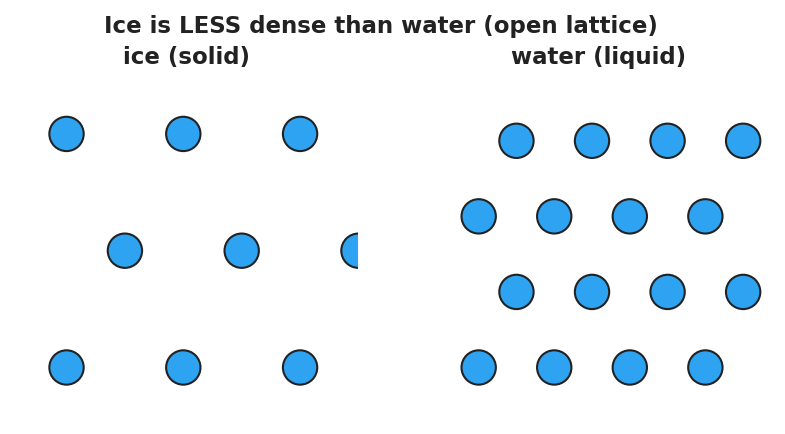
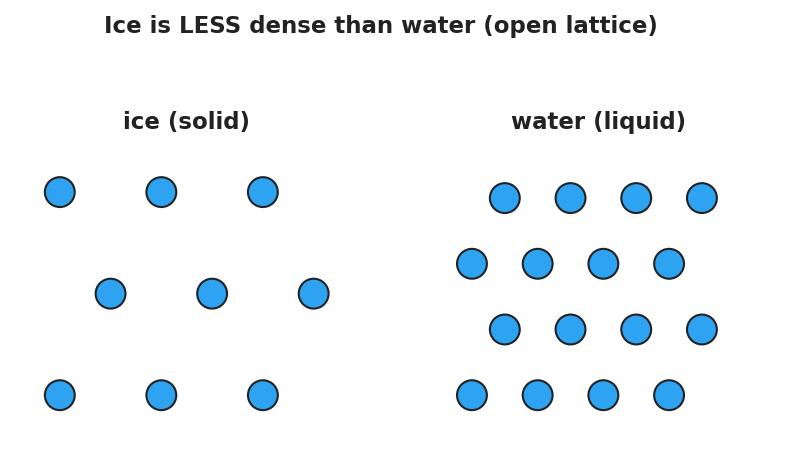
polish(chem): runnable gen script (sys.path) + fix ice-vs-water clipping/titles

diff --git a/tools/_gen_chem_unit01_figures.py b/tools/_gen_chem_unit01_figures.py
@@ -1,10 +1,14 @@
 """One-off generator: figures for Chemistry Unit 1 (Safety & Measurement).
 
 Run from project root with the venv active:
-    PYTHONPATH=. python tools/_gen_chem_unit01_figures.py
+    python tools/_gen_chem_unit01_figures.py
 """
 from __future__ import annotations
 from pathlib import Path
+import sys
+_PROJECT_ROOT = Path(__file__).resolve().parent.parent
+if str(_PROJECT_ROOT) not in sys.path:
+    sys.path.insert(0, str(_PROJECT_ROOT))
 import numpy as np
 import matplotlib
 matplotlib.use("Agg")
@@ -70,8 +74,9 @@ def ice_vs_water_particles(path):
     """Particle spacing: open hexagonal ice lattice (less dense) vs. close-packed
     liquid water — why ice floats."""
     fig, axes = plt.subplots(1, 2, figsize=(6.5, 3.2))
+    fig.subplots_adjust(top=0.82)
     for ax, (title, openness) in zip(axes, [("ice (solid)", 0.34), ("water (liquid)", 0.22)]):
-        ax.set_xlim(0, 1); ax.set_ylim(0, 1); ax.set_aspect("equal"); ax.axis("off")
+        ax.set_xlim(0, 1.15); ax.set_ylim(0, 1); ax.set_aspect("equal"); ax.axis("off")
         ax.set_title(title, fontsize=11, fontweight="bold")
         ys = np.arange(0.15, 0.95, openness)
         xs = np.arange(0.15, 0.95, openness)
@@ -79,7 +84,8 @@ def ice_vs_water_particles(path):
             for x in xs:
                 ox = (openness / 2) if j % 2 else 0
                 ax.add_patch(Circle((x + ox, y), 0.05, facecolor=BLUE, edgecolor=INK))
-    fig.suptitle("Ice is LESS dense than water (open lattice)", fontsize=11, fontweight="bold")
+    fig.suptitle("Ice is LESS dense than water (open lattice)", fontsize=11, fontweight="bold",
+                 y=1.04)
     return _save(fig, path)
 
 
